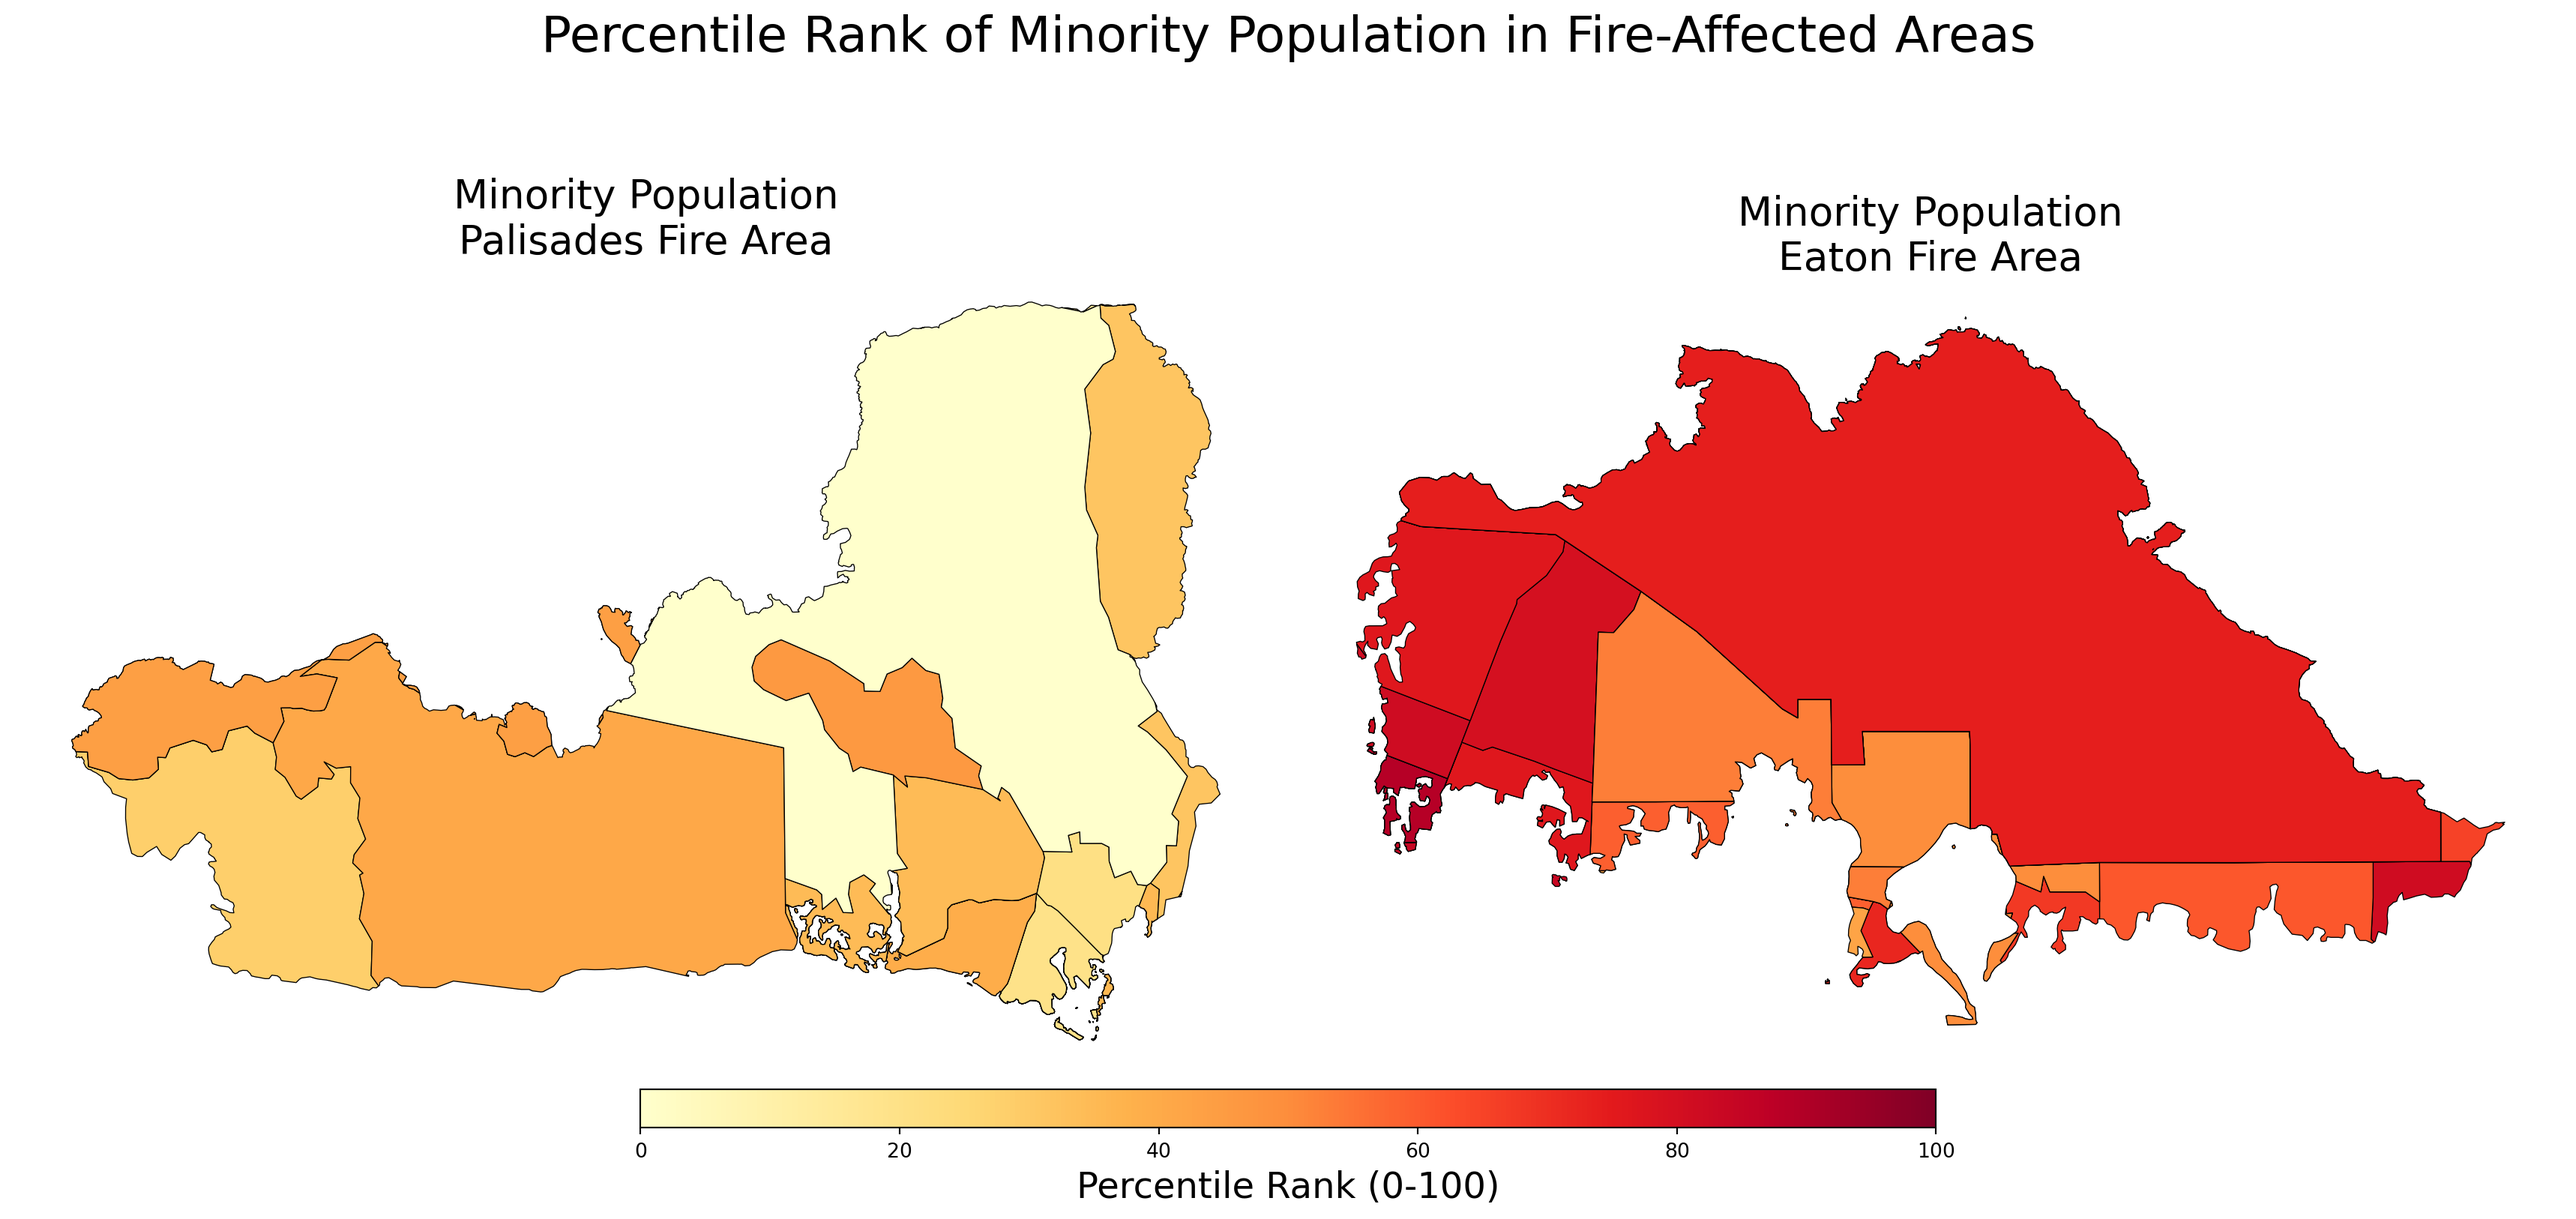
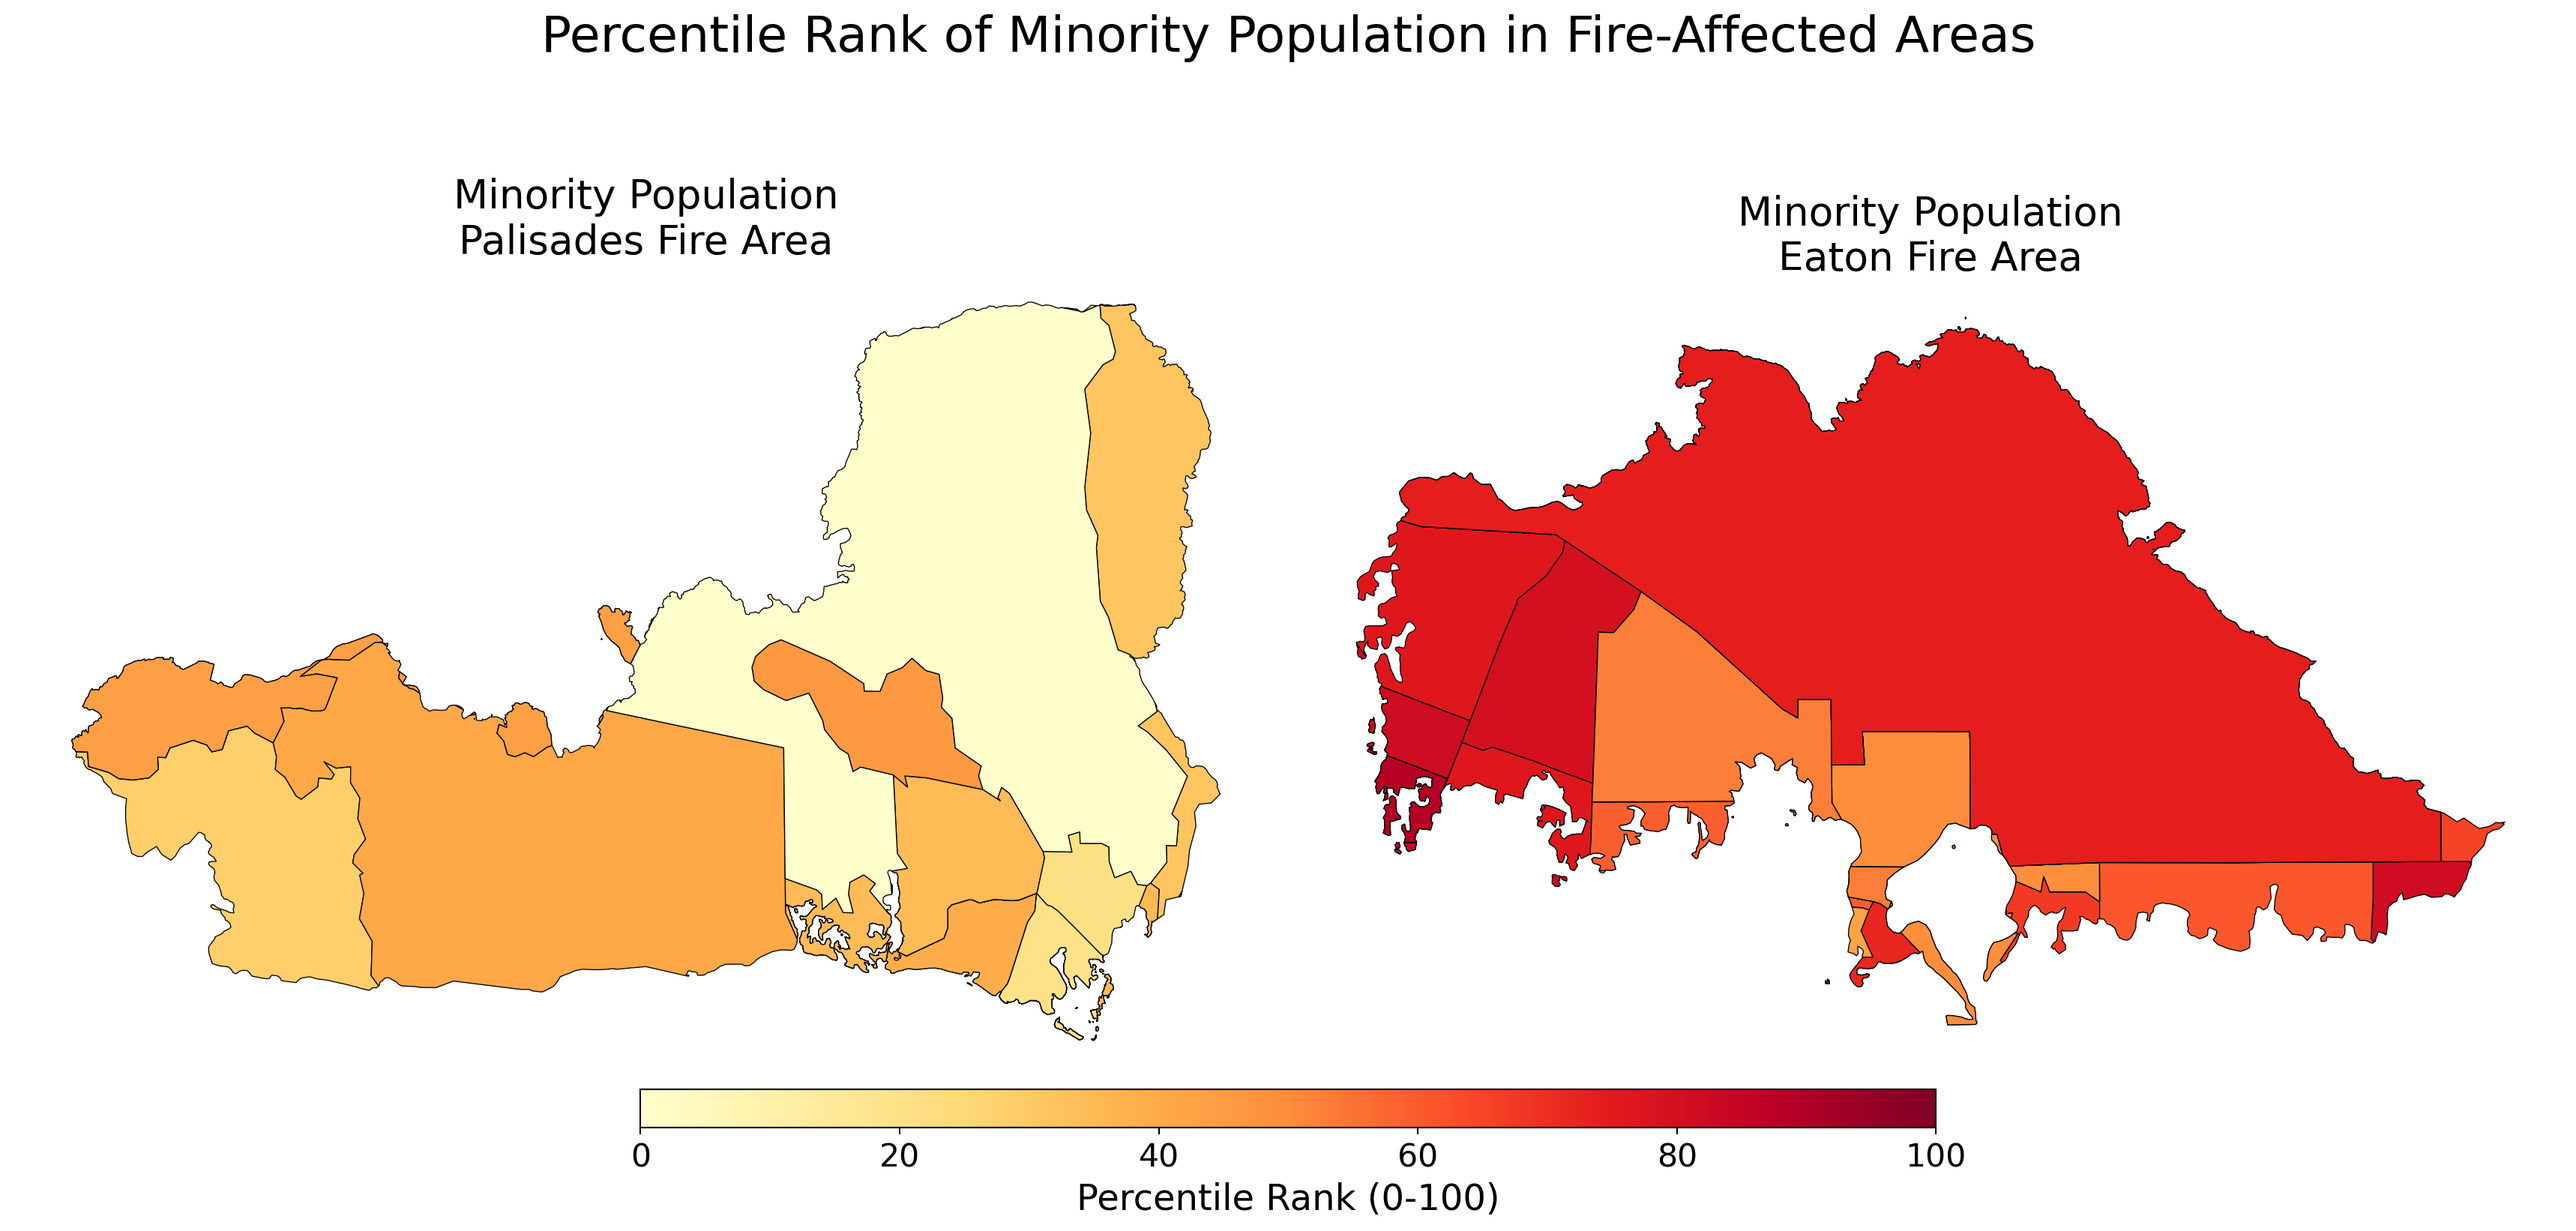
Increase legend font size

diff --git a/docs/posts/eds220-final/index.html b/docs/posts/eds220-final/index.html
@@ -837,14 +837,15 @@ div.csl-indent {
 <span id="cb11-53"><a href="#cb11-53" aria-hidden="true" tabindex="-1"></a>cbar_ax <span class="op">=</span> fig.add_axes([<span class="fl">0.25</span>, <span class="fl">0.12</span>, <span class="fl">0.5</span>, <span class="fl">0.03</span>])</span>
 <span id="cb11-54"><a href="#cb11-54" aria-hidden="true" tabindex="-1"></a>cbar <span class="op">=</span> fig.colorbar(sm, cax <span class="op">=</span> cbar_ax, orientation <span class="op">=</span> <span class="st">'horizontal'</span>)</span>
 <span id="cb11-55"><a href="#cb11-55" aria-hidden="true" tabindex="-1"></a>cbar.set_label(<span class="st">'Percentile Rank (0-100)'</span>, fontsize <span class="op">=</span> <span class="dv">18</span>)</span>
-<span id="cb11-56"><a href="#cb11-56" aria-hidden="true" tabindex="-1"></a></span>
-<span id="cb11-57"><a href="#cb11-57" aria-hidden="true" tabindex="-1"></a>plt.tight_layout()</span>
-<span id="cb11-58"><a href="#cb11-58" aria-hidden="true" tabindex="-1"></a>plt.show()</span></code></pre></div><button title="Copy to Clipboard" class="code-copy-button"><i class="bi"></i></button></div>
+<span id="cb11-56"><a href="#cb11-56" aria-hidden="true" tabindex="-1"></a>cbar.ax.tick_params(labelsize<span class="op">=</span><span class="dv">16</span>)</span>
+<span id="cb11-57"><a href="#cb11-57" aria-hidden="true" tabindex="-1"></a></span>
+<span id="cb11-58"><a href="#cb11-58" aria-hidden="true" tabindex="-1"></a>plt.tight_layout()</span>
+<span id="cb11-59"><a href="#cb11-59" aria-hidden="true" tabindex="-1"></a>plt.show()</span></code></pre></div><button title="Copy to Clipboard" class="code-copy-button"><i class="bi"></i></button></div>
 </details>
 <div class="cell-output cell-output-display">
 <div id="eji-racial-map" class="quarto-figure quarto-figure-center anchored">
 <figure class="figure">
-<p><img src="index_files/figure-html/eji-racial-map-output-1.png" width="1718" height="813" class="figure-img"></p>
+<p><img src="index_files/figure-html/eji-racial-map-output-1.png" width="1718" height="821" class="figure-img"></p>
 <figcaption>Racial demographic comparison between fire areas</figcaption>
 </figure>
 </div>

diff --git a/docs/blog.html b/docs/blog.html
@@ -277,7 +277,7 @@ Emily Miller
 </a>
 </div>
 </div>
[2 lines of base64/hex data omitted]
 <div class="thumbnail"><a href="./posts/eds220-final/index.html" class="no-external">
 
 <img loading="lazy" src="./posts/eds220-final/LA-Wildfires-crop.jpg" class="thumbnail-image">
